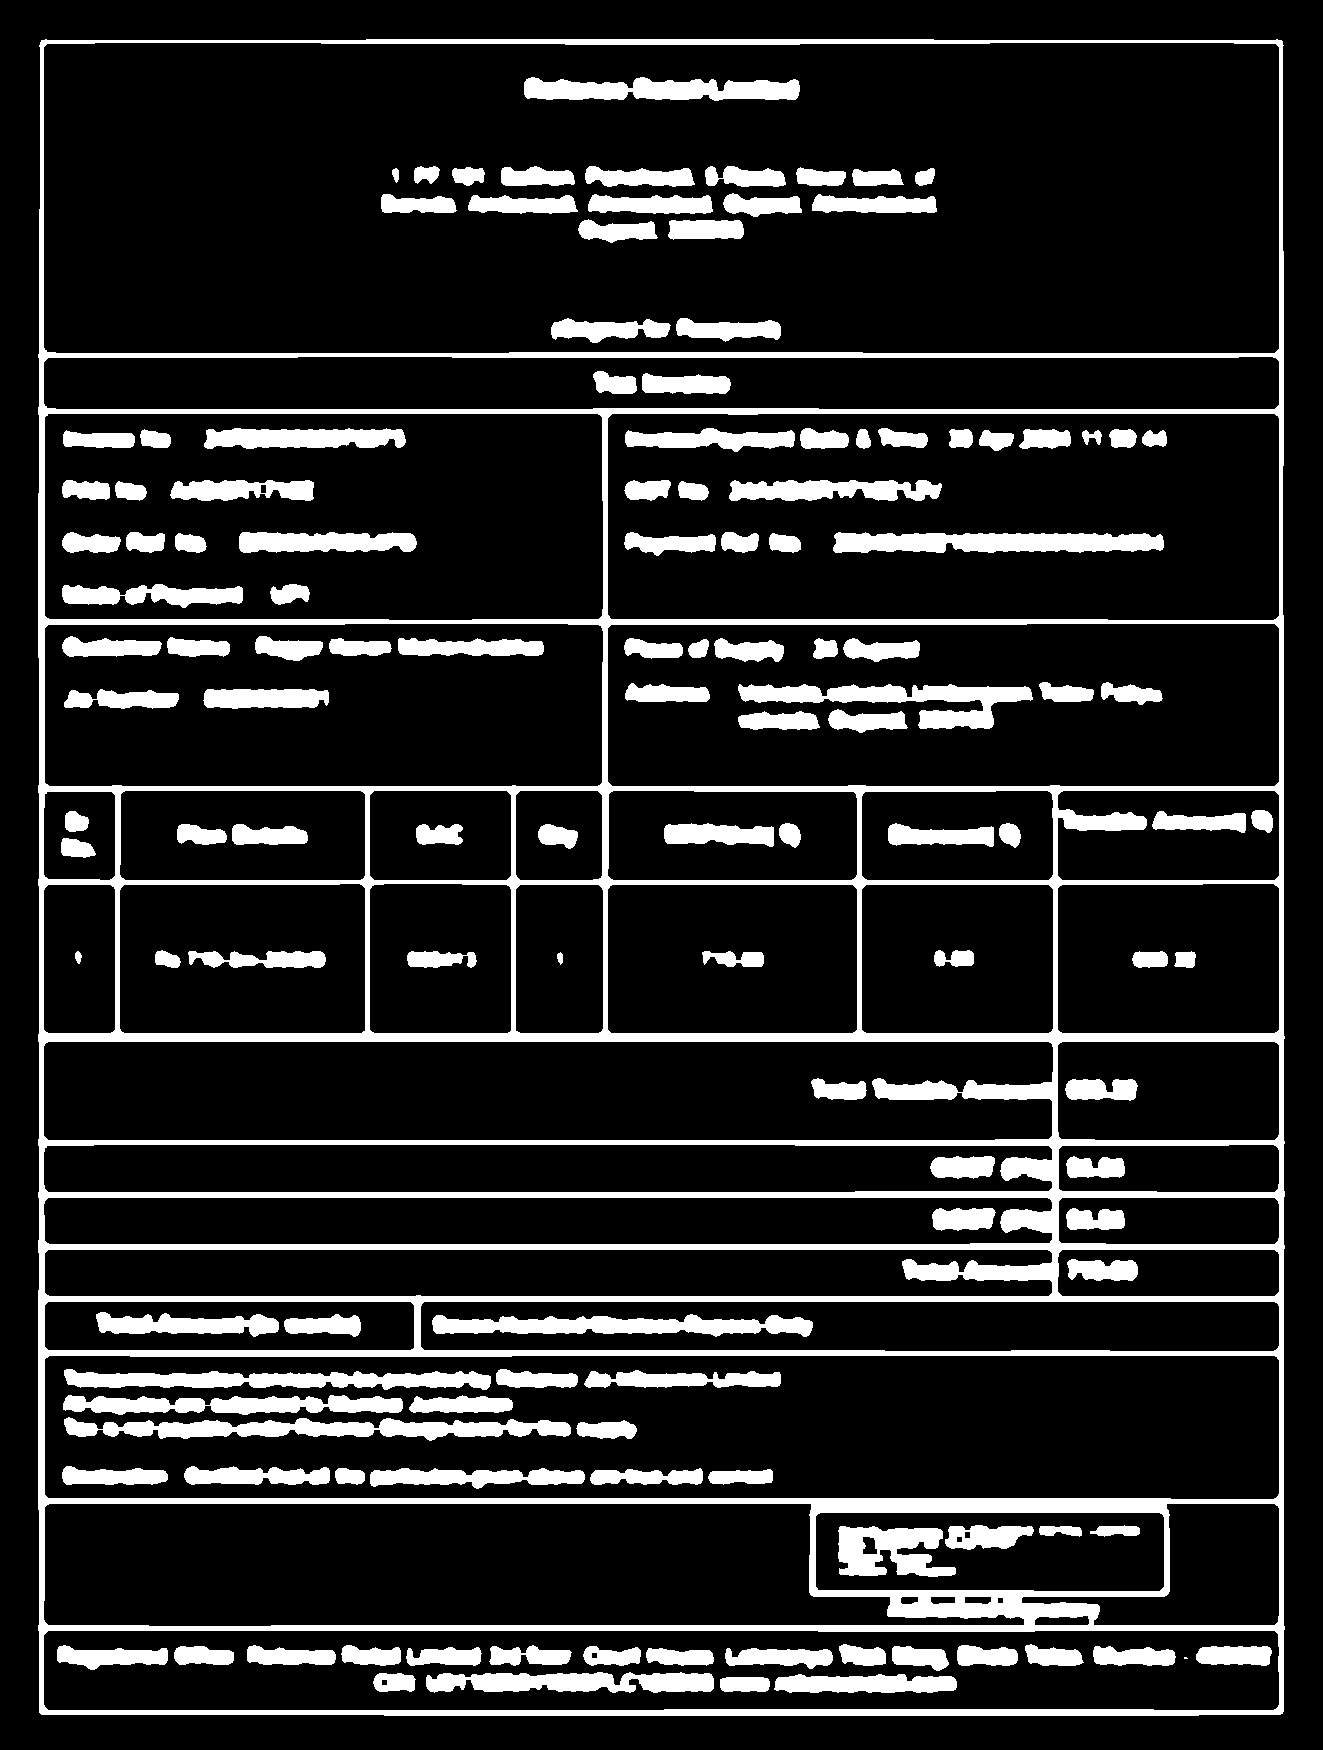
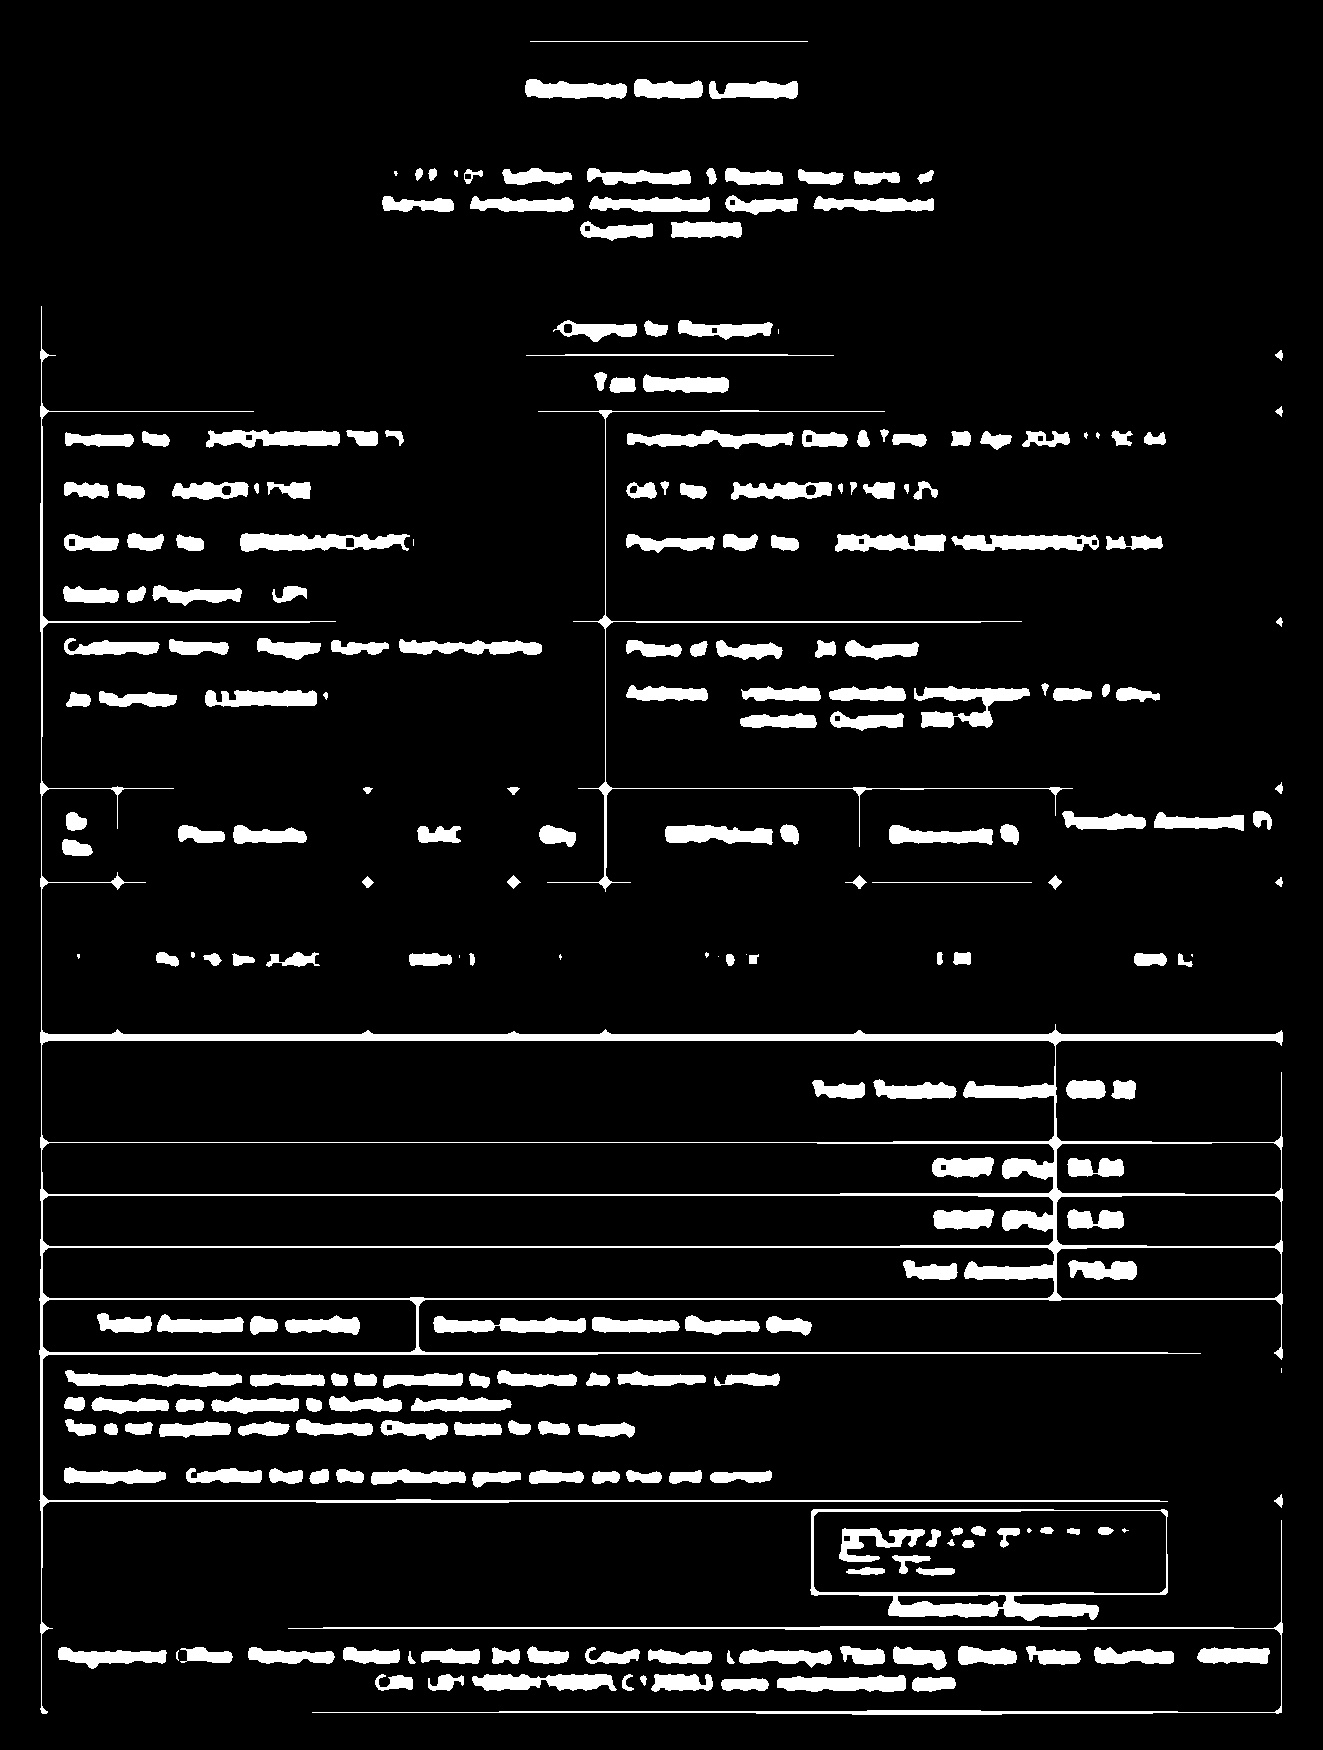
kaggle image enhancement

diff --git a/image_pre_process_model.py b/image_pre_process_model.py
@@ -1,0 +1,60 @@
+import cv2
+import numpy as np
+from sklearn.model_selection import train_test_split
+from sklearn.ensemble import RandomForestClassifier
+from sklearn.metrics import accuracy_score
+
+# Example function to extract image features
+def extract_features(image):
+    # Implement feature extraction here (e.g., image sharpness, contrast metrics)
+    # Return features as numpy array
+    return np.array([])  # Placeholder for actual feature extraction
+
+# Example function to preprocess image based on predicted level
+def preprocess_image(image, preprocessing_level):
+    # Implement preprocessing based on preprocessing_level
+    # Return preprocessed image
+    return image  # Placeholder for actual preprocessing
+
+# Example dataset (replace with your own)
+def load_dataset():
+    # Load and preprocess images
+    images = []
+    labels = []
+    for image_path in image_path:
+        image = cv2.imread(image_path, cv2.IMREAD_GRAYSCALE)
+        preprocessed_image = preprocess_image(image)
+        features = extract_features(preprocessed_image)
+        images.append(features)
+        labels.append(preprocessing_level)
+    return np.array(images), np.array(labels)
+
+# Load dataset
+X, y = load_dataset()
+
+# Split dataset into train and validation sets
+X_train, X_val, y_train, y_val = train_test_split(X, y, test_size=0.2, random_state=42)
+
+# Initialize and train model (example with RandomForestClassifier)
+model = RandomForestClassifier(n_estimators=100, random_state=42)
+model.fit(X_train, y_train)
+
+# Predict on validation set
+y_pred = model.predict(X_val)
+
+# Evaluate model performance
+accuracy = accuracy_score(y_val, y_pred)
+print(f"Validation Accuracy: {accuracy:.2f}")
+
+# Example usage in deployment
+def predict_preprocessing_level(image):
+    preprocessed_image = preprocess_image(image)
+    features = extract_features(preprocessed_image)
+    preprocessing_level = model.predict([features])[0]
+    return preprocessing_level
+
+# Example usage
+image_path = 'path_to_new_image.jpg'
+new_image = cv2.imread(image_path, cv2.IMREAD_GRAYSCALE)
+predicted_level = predict_preprocessing_level(new_image)
+preprocessed_new_image = preprocess_image(new_image, predicted_level)

diff --git a/enhance_text.py b/enhance_text.py
@@ -7,13 +7,13 @@ image_path = 'images/image_blur_6.jpg'
 image = cv2.imread(image_path, cv2.IMREAD_GRAYSCALE)
 
 # Enhance the image for OCR using preprocessing techniques
-def preprocess_image(image):
+def preprocess_image(image, clip_limit=2.0, threshold_value=180):
     # Increase contrast and intensity
-    clahe = cv2.createCLAHE(clipLimit=2.0, tileGridSize=(8, 8))
+    clahe = cv2.createCLAHE(clipLimit=clip_limit, tileGridSize=(8, 8))
     enhanced = clahe.apply(image)
     
     # Adaptive thresholding to binarize the image
-    _, thresh = cv2.threshold(enhanced, 180, 255, cv2.THRESH_BINARY_INV)
+    _, thresh = cv2.threshold(enhanced, threshold_value, 255, cv2.THRESH_BINARY_INV)
     
     # Optional: Morphological operations to improve text connectivity
     kernel = np.ones((3, 3), np.uint8)
@@ -21,8 +21,10 @@ def preprocess_image(image):
     
     return closing
 
-# Preprocess the image
-preprocessed_image = preprocess_image(image)
+# Preprocess the image with adjustable parameters
+clip_limit = 2.3  # Adjust this to control contrast enhancement
+threshold_value = 145  # Adjust this to control text boldness
+preprocessed_image = preprocess_image(image, clip_limit, threshold_value)
 
 # Display the preprocessed image
 plt.figure(figsize=(8, 6))

diff --git a/kaggle_image_enhance_module4.py b/kaggle_image_enhance_module4.py
@@ -1,0 +1,22 @@
+import cv2
+from matplotlib import pyplot as plt
+import numpy as np
+
+# Read the image in BGR format
+nz_img_bgr = cv2.imread('images/image_blur_6.jpg')
+
+# Convert BGR to RGB
+nz_img_rgb = cv2.cvtColor(nz_img_bgr, cv2.COLOR_BGR2RGB)
+
+# Create a matrix to adjust brightness
+matrix = np.ones(nz_img_rgb.shape, dtype="uint8") * 50
+nz_img_brighter = cv2.add(nz_img_bgr, matrix)
+nz_img_darker = cv2.subtract(nz_img_bgr, matrix)
+
+# Show the images
+plt.figure(figsize=[18,5])
+plt.subplot(131); plt.imshow(nz_img_darker); plt.title("Darker")
+plt.subplot(132); plt.imshow(nz_img_brighter); plt.title("Brighter")
+plt.subplot(133); plt.imshow(nz_img_rgb); plt.title("Original")
+
+plt.show()  # Display the plots
